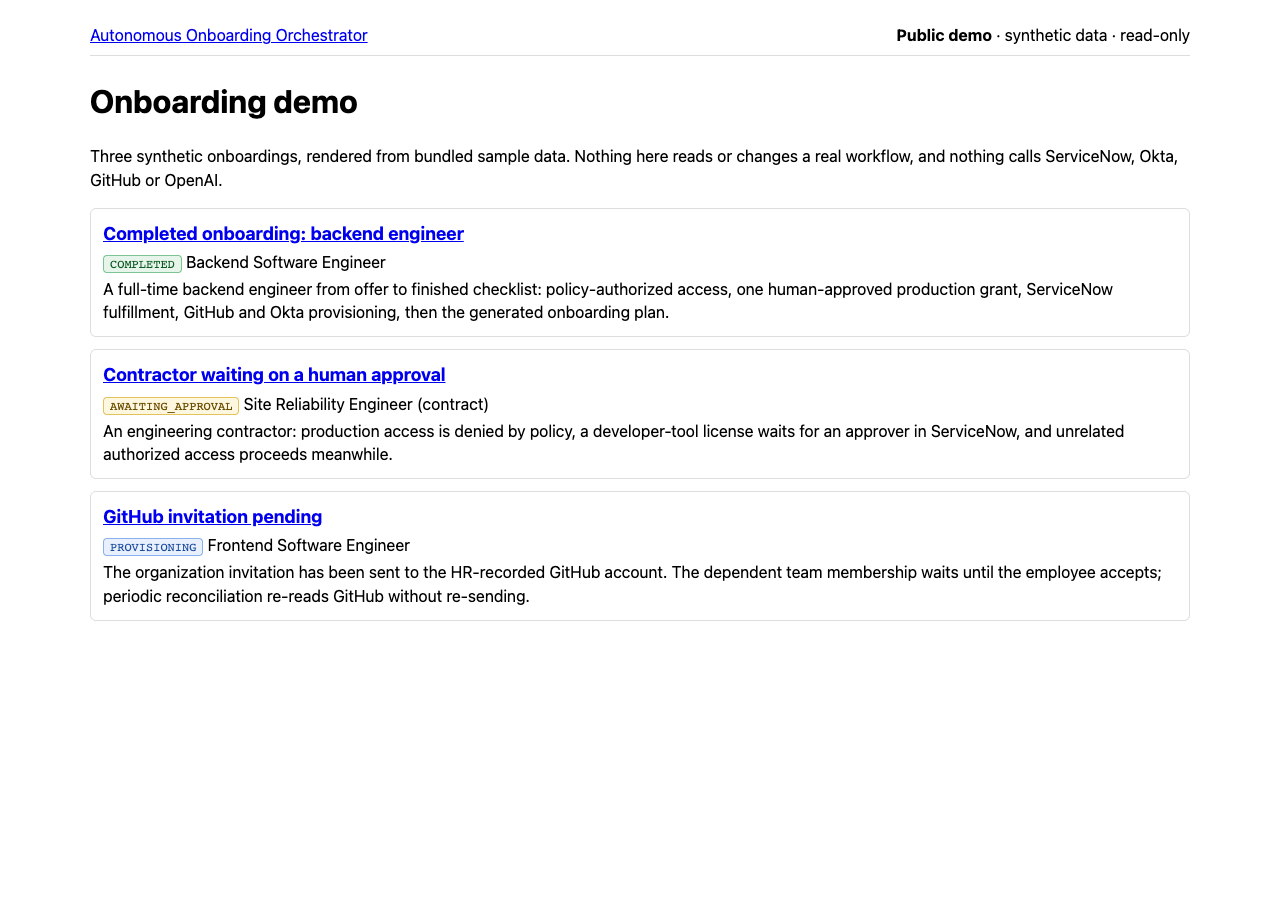
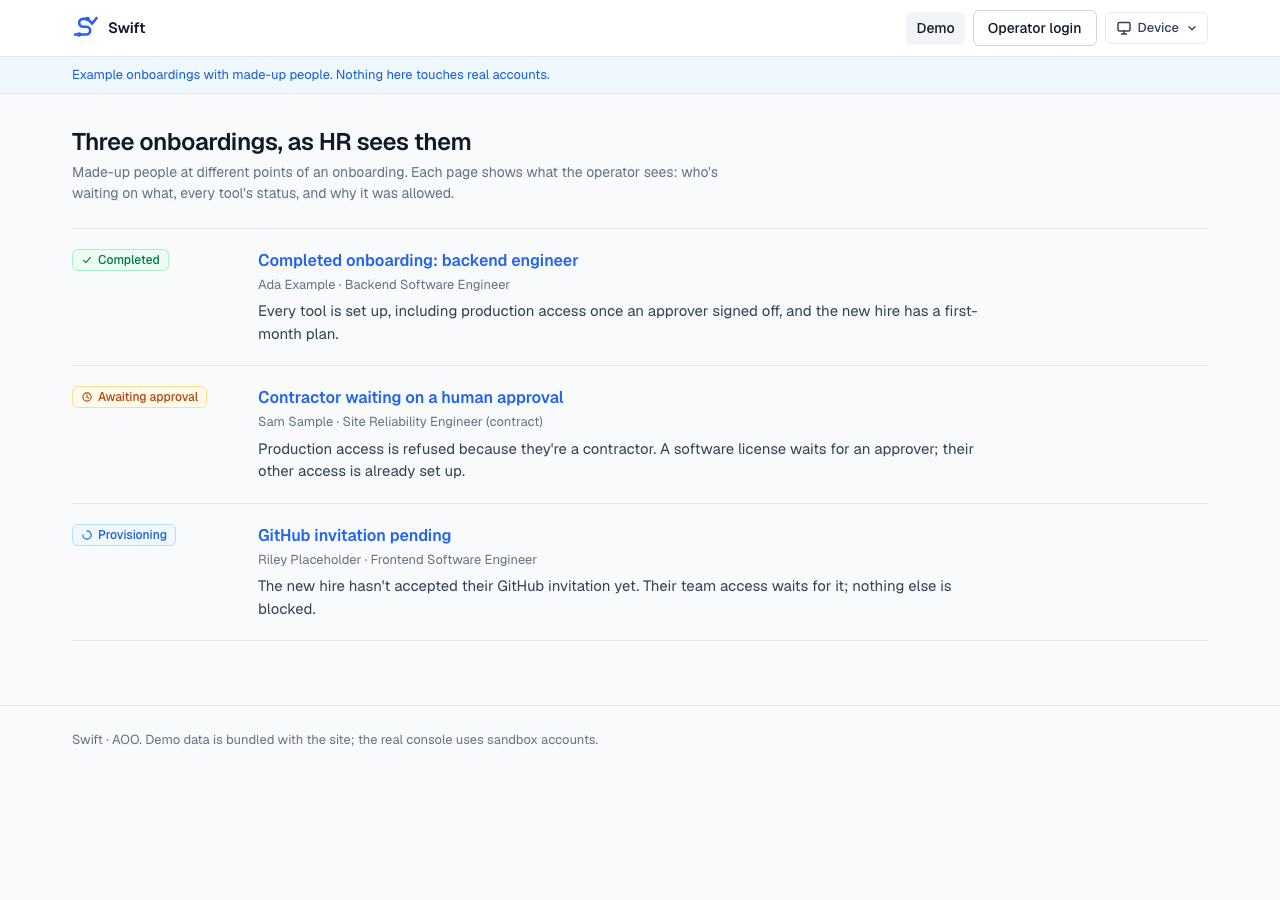
docs: polish AOO portfolio presentation
- README: current product (offer-letter intake and the Offer Letter
  Extractor, both agents, Okta automation for Jira/Slack/AWS development,
  AWS production approval + fulfillment, GitHub, start date and timing,
  operator retry, operator accounts), updated architecture diagram, test
  counts, local run and limitations.
- DEPLOYMENT.md: environment matrix entries added since M10.
- Screenshots retaken from the current public, synthetic pages.

diff --git a/README.md b/README.md
@@ -1,67 +1,99 @@
-# Autonomous Onboarding Orchestrator
+# Swift: Autonomous Onboarding Orchestrator
 
-Event-driven employee onboarding with AI agents that only _recommend_, a deterministic policy
-engine that alone _authorizes_, idempotent adapters that _execute_ against real enterprise
-systems, and a durable workflow engine that _owns state_.
+Event-driven employee onboarding. AI components only _propose_, a deterministic policy engine
+alone _authorizes_, idempotent adapters _execute_ against real sandbox systems, and a durable
+workflow engine on PostgreSQL _owns state_. People step in only where a decision needs a person:
+approving sensitive access and fulfilling what can't be automated.
 
 > **Agents recommend. Policies authorize. Adapters execute. The orchestrator owns state.**
 
-- **Live demo (synthetic, read-only):** https://aoo-web.vercel.app/demo
 - **Landing page:** https://aoo-web.vercel.app
-- **Operator dashboard (internal, sign-in required):** https://aoo-web.vercel.app/admin/onboarding
+- **Public demo (synthetic, read-only):** https://aoo-web.vercel.app/demo
+- **Operator console (sign-up required):** https://aoo-web.vercel.app/admin/onboarding
 
-![Public demo: completed onboarding](docs/screenshots/demo-completed.png)
+This is a portfolio proof of concept. All people and companies in it are fabricated, every
+integration is a sandbox or developer instance, and automated processing runs on a free-tier
+business-hours schedule.
+
+![Operator workflow page (synthetic hire)](apps/web/public/console-workflow.png)
 
 ## What it does
 
-1. An HRIS sends a signed `offer.signed` event (HMAC over timestamp + raw body, 5-minute replay
-   window). Only a signed offer for a cleared candidate starts onboarding.
-2. The **Role Access Agent** (OpenAI, strict structured output, no tools) recommends entitlements
-   from a versioned, hash-pinned resource catalog. It never sees authorization facts.
-3. The **policy engine** decides every resource independently: `ALLOW`, `DENY` or
-   `REQUIRES_APPROVAL`, attributable to exactly one rule, replayable forever.
-4. Approval-required resources get a **ServiceNow** ticket; a human decides; ServiceNow sends a
-   signed callback; the backend **reads the ticket back** and trusts only that.
-5. Authorized resources are provisioned in dependency order: **Okta** group membership, **GitHub**
-   organization (invitation) then team membership, **ServiceNow** fulfillment records completed
-   by a human fulfiller, and operator-confirmed manual resources.
-6. When everything has settled, the **Onboarding Plan Agent** writes a validated checklist that
-   may reference only resources that were actually provisioned, and the workflow completes.
+1. **Intake.** Either a signed HRIS `offer.signed` event (HMAC over timestamp + raw body, 5-minute
+   replay window), or an operator uploads a signed offer letter: the **Offer Letter Extractor**
+   (one structured-output call, no tools) proposes display fields such as name, title and start
+   date, strips compensation and personal identifiers, and never stores the PDF. The operator
+   reviews every field, chooses the three canonical facts that drive access (department, role
+   family, employment type) and attests the offer is signed and the candidate cleared. The AI
+   never sets those facts.
+2. **Recommendation.** The **Role Access Agent** (OpenAI, strict structured output, no tools)
+   recommends tools from a versioned, hash-pinned catalog. It never sees authorization facts.
+3. **Authorization.** The policy engine decides every tool independently: `ALLOW`, `DENY` or
+   `REQUIRES_APPROVAL`, each attributable to exactly one rule and replayable from the recorded
+   catalog and policy versions.
+4. **Provisioning,** in dependency order, each tool on its own (catalog `1.1.0`):
+
+   | Tool                                                 | Carried out by                                                      |
+   | ---------------------------------------------------- | ------------------------------------------------------------------- |
+   | Okta engineering group, Jira, Slack, AWS development | **Okta group membership, automatic** (no person involved)           |
+   | AWS production                                       | **ServiceNow approval**, then a separate **ServiceNow fulfillment** |
+   | GitHub organization, then team                       | **GitHub**, after HR records the hire's username                    |
+   | Cursor license                                       | **The operator** (no API), confirmed in the console                 |
+
+   Swift creates the Okta user **staged**: it never activates accounts or sets passwords. A
+   ServiceNow callback is only a notification; Swift reads the ticket back and trusts only that.
+   A tool becomes ready only after the provider confirms it on read-back. Onboardings keep the
+   catalog version they started with.
+
+5. **Plan.** When every tool has settled, the **Onboarding Plan Agent** writes a validated
+   first-month checklist that may reference only tools the person actually has, and the
+   workflow completes.
+
+The operator console shows each hire's **start date** (with whether access is on track for it),
+**how long access took** (onboarding start → every tool settled), **how long the whole
+onboarding took** (start → plan written), and per tool, **how long after the start it became
+ready**, all from durable timestamps. Operators can **retry** a failed tool (fresh provider
+operations, history kept) and **request a new approval** when ServiceNow confirms the old ticket
+no longer exists.
 
 ## Architecture
 
 ```mermaid
 flowchart LR
   HRIS[HRIS<br/>signed offer.signed] -->|HMAC + timestamp| API
+  OP[Operator browser] -->|session cookie| WEB
   subgraph Vercel[Vercel Hobby]
-    WEB[aoo-web<br/>Next.js: landing, demo,<br/>operator dashboard]
+    WEB[aoo-web<br/>Next.js: landing, demo,<br/>operator console]
     API[aoo-api<br/>Fastify Function:<br/>webhooks + operator API]
     WORKER[aoo-worker<br/>bounded Function<br/>POST /api/worker/run]
   end
   QSTASH[Upstash QStash<br/>signed clock only<br/>Mon–Fri 09:00–16:59] -->|signed request| WORKER
-  WEB -->|server-side, operator session| API
+  WEB -->|server-side only| API
+  API -->|offer letter, propose only| OAI
   API -->|one transaction:<br/>state + outbox| DB[(Neon PostgreSQL<br/>workflow · outbox · audit)]
   WORKER -->|claim with leases,<br/>idempotent handlers| DB
-  WORKER -->|recommend only| OAI[OpenAI<br/>2 agents]
+  WORKER -->|recommend only| OAI[OpenAI<br/>2 agents + 1 extractor]
   WORKER -->|policy engine<br/>in-process| WORKER
-  WORKER -->|reconcile → write once → read back| SN[ServiceNow PDI]
-  WORKER --> OKTA[Okta]
-  WORKER --> GH[GitHub]
+  WORKER -->|reconcile → write once → read back| OKTA[Okta<br/>users + groups]
+  WORKER --> GH[GitHub<br/>org + teams]
+  WORKER -->|approval, then fulfillment| SN[ServiceNow PDI]
   SN -->|signed approval /<br/>fulfillment callback| API
 ```
 
-- **Modular monolith** in a pnpm + TypeScript monorepo; a custom durable workflow engine on
-  PostgreSQL (state machine with optimistic locking, append-only audit, transactional outbox).
+- **Modular monolith** in a pnpm + TypeScript monorepo, with a custom durable workflow engine on
+  PostgreSQL: a state machine with optimistic locking, an append-only audit log and a
+  transactional outbox (a state change and its events commit together).
 - **Outbox worker:** `FOR UPDATE SKIP LOCKED` claiming, fenced leases with heartbeat renewal,
   retries with jittered backoff, dead letters with audited redrive. The same handlers run in a
   long-lived Docker process locally and in a bounded serverless Function in production.
-- **External operations:** every side effect is a durable operation with an idempotency key,
-  reconcile-before-write, a single write, read-back verification and uncertain-outcome
-  reconciliation (`OUTCOME_UNKNOWN` is persisted _before_ reconciling). A stale owner can never
-  overwrite a newer result.
-- **Agents are boxed in:** versioned prompts pinned by tests, Zod-validated outputs, post-model
-  catalog validation, no tools, untrusted text fenced as data, measured by eval datasets.
-- **Observability:** read-only read models, an operator dashboard with a deterministic timeline,
+- **External operations:** every side effect is a durable operation with an idempotency key:
+  reconcile before writing, write once, verify by read-back, and persist `OUTCOME_UNKNOWN` before
+  reconciling an uncertain result. A stale owner can never overwrite a newer result, so replays
+  and duplicate deliveries never repeat a side effect.
+- **AI is boxed in:** versioned prompts pinned by tests, Zod-validated outputs, post-model
+  catalog validation, no tools, untrusted text fenced as data, and evaluation datasets run
+  against the real model (including prompt-injection cases).
+- **Observability:** read-only read models, an operator console with a deterministic timeline,
   opt-in OpenTelemetry with trace propagation through the outbox, request ids, correlated logs.
 
 ## Production deployment
@@ -85,13 +117,16 @@ Details: [docs/DEPLOYMENT.md](docs/DEPLOYMENT.md).
 
 - Every inbound webhook is authenticated before parsing (HRIS and ServiceNow HMAC with replay
   windows; QStash JWT via the official Receiver with key rotation). Rejections write nothing.
-- The operator token never reaches the browser: server-side login, then a short-lived signed
-  HttpOnly / SameSite=Strict / Secure session cookie. No `NEXT_PUBLIC_*` variables, no CORS.
+- Operators sign in with their own accounts (scrypt hashes, generic failures, lockout after 5
+  attempts, server-side logout). The browser only holds a short-lived signed HttpOnly /
+  SameSite=Strict / Secure session cookie; the server-to-API credential never reaches it. No
+  `NEXT_PUBLIC_*` variables, no CORS.
+- Least privilege in every provider: the ServiceNow integration account can only create and read
+  requests, and the fulfiller role can change one field.
 - Production refuses the public development defaults; secrets live only in Vercel (Production,
   Sensitive) and a git-ignored `.env`; previews receive none of them.
 - Sanitized errors everywhere: no tokens, headers, query strings or provider bodies in logs,
   audit, traces or API responses.
-- The public demo is synthetic, bundled, identifier-free and cannot be pointed at real data.
 
 ## Run it locally
 
@@ -100,24 +135,33 @@ cp .env.example .env                 # development defaults; fill in sandboxes o
 docker compose up --build            # postgres, migrate, api :4000, web :3000, worker
 export HRIS_WEBHOOK_SECRET=dev-only-hris-webhook-secret-change-me
 pnpm hris:simulate --profile engineering
-open http://localhost:3000/admin/onboarding   # operator token: ONBOARDING_ADMIN_TOKEN
+open http://localhost:3000/admin/onboarding/signup   # create a local operator account
 ```
 
-`pnpm check` (format, typecheck, unit tests), `pnpm test:integration` (real PostgreSQL),
-`pnpm build`. Live sandbox suites and the deployed end-to-end test are explicit commands listed in
-[CLAUDE.md](CLAUDE.md).
+`pnpm check` (format, typecheck, 844 unit tests), `pnpm test:integration` (380 tests against real
+PostgreSQL), `pnpm build`. Live sandbox suites, evaluations and the deployed end-to-end test are
+explicit commands listed in [CLAUDE.md](CLAUDE.md), which also holds the architecture decisions
+and the verification record of every milestone.
 
 ## Screenshots
 
-| Landing                                  | Demo: awaiting approval                                           | Demo: GitHub invitation pending                                           |
-| ---------------------------------------- | ----------------------------------------------------------------- | ------------------------------------------------------------------------- |
-| ![Landing](docs/screenshots/landing.png) | ![Awaiting approval](docs/screenshots/demo-awaiting-approval.png) | ![GitHub invitation pending](docs/screenshots/demo-github-invitation.png) |
+Public, synthetic pages only. The demo scenarios predate catalog `1.1.0`, so they still show AWS
+development fulfilled through ServiceNow.
 
-Screenshots show only the public synthetic demo; no real workflow, identifier or secret appears.
+| Landing                                  | Demo: completed                                   | Demo: awaiting approval                                           |
+| ---------------------------------------- | ------------------------------------------------- | ----------------------------------------------------------------- |
+| ![Landing](docs/screenshots/landing.png) | ![Completed](docs/screenshots/demo-completed.png) | ![Awaiting approval](docs/screenshots/demo-awaiting-approval.png) |
 
 ## Known limitations
 
-Demo-grade plans (Vercel Hobby, QStash Free, Neon Free); a single shared operator token (no SSO);
-API tokens / Basic auth to the sandboxes; no automated remediation commands; onboarding plans are
-generic (no company onboarding-module catalog). See the limitations sections in
-[CLAUDE.md](CLAUDE.md) and [docs/DEPLOYMENT.md](docs/DEPLOYMENT.md).
+- Demo-grade hosting (Vercel Hobby, QStash Free, Neon Free): automated work runs on weekday
+  business hours only.
+- Okta accounts stay staged; activation on the start date isn't implemented.
+- The GitHub sandbox has a single test account, so only one hire can be linked to it; others stop
+  safely with an ownership error.
+- No SSO or roles: anyone can sign up and every account is a full operator, bounded by daily
+  limits (a proof-of-concept choice).
+- API tokens / Basic auth to the sandboxes; no offboarding or role changes; onboarding plans are
+  generic (no company onboarding-module catalog).
+
+See the limitations sections in [CLAUDE.md](CLAUDE.md) and [docs/DEPLOYMENT.md](docs/DEPLOYMENT.md).

diff --git a/docs/DEPLOYMENT.md b/docs/DEPLOYMENT.md
@@ -104,8 +104,11 @@ secrets, so preview deployments cannot reach real data or providers (and fail cl
 | `GITHUB_ORG`, `GITHUB_BACKEND_TEAM_SLUG/NAME`, `GITHUB_FRONTEND_TEAM_SLUG/NAME`                     |     |     | ✓      |     |
 | `OKTA_API_TOKEN`                                                                                    |     |     | ✓      | S   |
 | `OKTA_BASE_URL`, `OKTA_ENGINEERING_GROUP_ID/NAME`, `OKTA_JIRA_ENGINEERING_GROUP_ID/NAME`            |     |     | ✓      |     |
-| `OPENAI_API_KEY`                                                                                    |     |     | ✓      | S   |
-| `OPENAI_MODEL`                                                                                      |     |     | ✓      |     |
+| `OKTA_SLACK_ENGINEERING_GROUP_ID/NAME`, `OKTA_AWS_DEV_GROUP_ID/NAME` (catalog 1.1.0, M14)           |     |     | ✓      |     |
+| `OPENAI_API_KEY` (api: Offer Letter Extractor; worker: the two agents)                              |     | ✓   | ✓      | S   |
+| `OPENAI_MODEL`                                                                                      |     | ✓   | ✓      |     |
+| `OFFER_LETTER_INTAKE_ENABLED=true` (M11)                                                            |     | ✓   |        |     |
+| `ROLE_ACCESS_AGENT_ENABLED=true`, `ROLE_ACCESS_RUN_LEASE_MS=60000` (M10)                            |     |     | ✓      |     |
 
 Never in any Vercel runtime project: `QSTASH_TOKEN` (schedule management only, local `.env`),
 `SERVICENOW_SCHEMA_*`, `SERVICENOW_FULFILLER_*`, `GITHUB_TEST_USERNAME`. Never a
